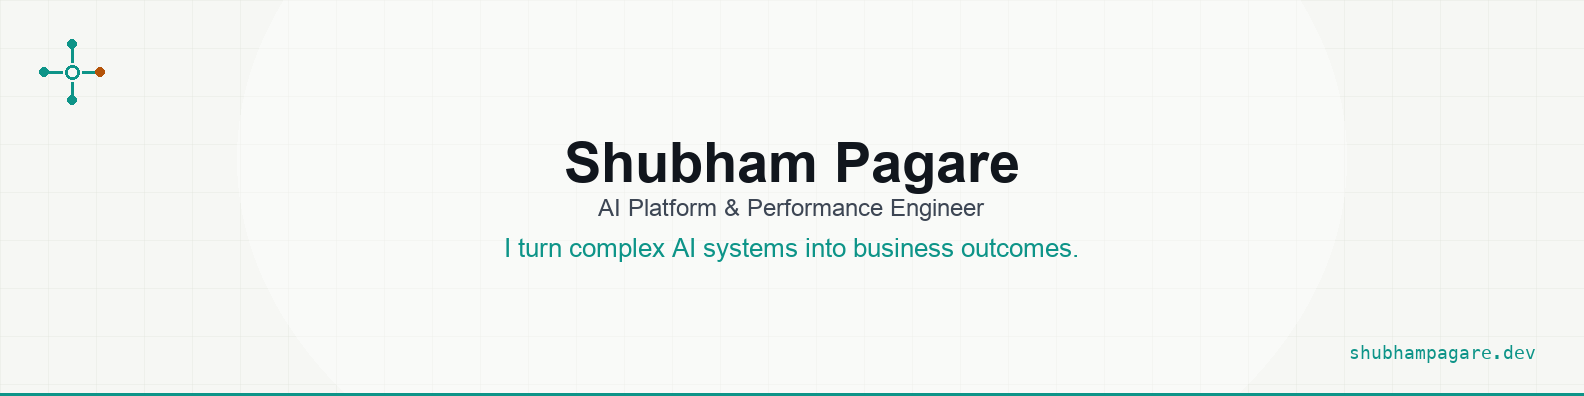
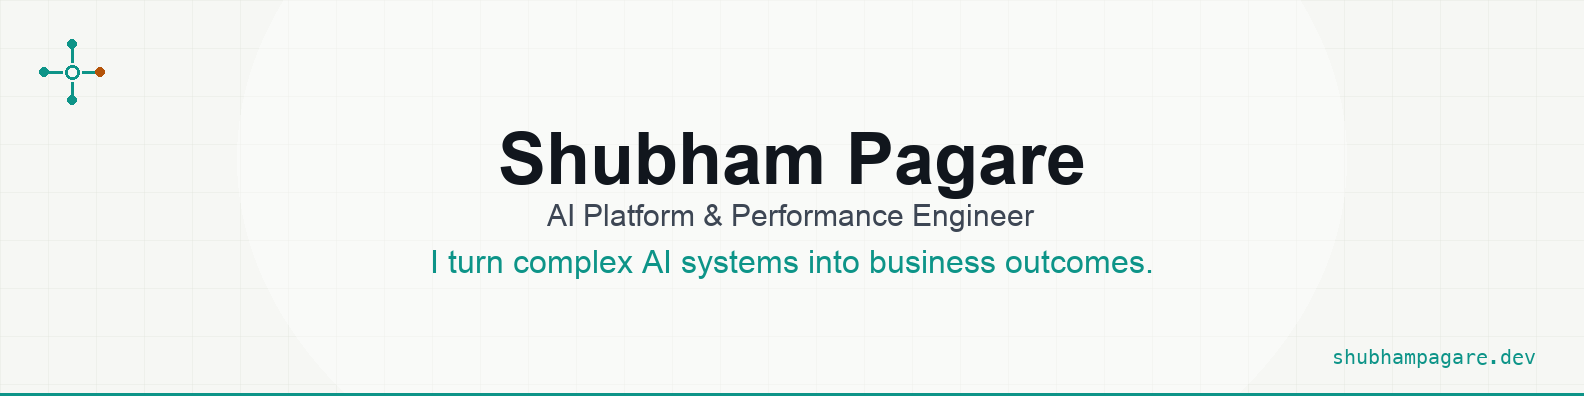
Added Google Analytics

Changed region(s): [[0.3093, 0.3333, 0.7115, 0.5758], [0.2784, 0.6061, 0.7424, 0.697], [0.8352, 0.8788, 0.9899, 0.9394]]

diff --git a/blog/messy-playground.html b/blog/messy-playground.html
@@ -1,6 +1,15 @@
 <!DOCTYPE html>
 <html lang="en" data-theme="light">
 <head>
+<!-- Google tag (gtag.js) -->
+<script async src="https://www.googletagmanager.com/gtag/js?id=G-W12G8WD90W"></script>
+<script>
+  window.dataLayer = window.dataLayer || [];
+  function gtag(){dataLayer.push(arguments);}
+  gtag('js', new Date());
+
+  gtag('config', 'G-W12G8WD90W');
+</script>
 <meta charset="UTF-8">
 <meta name="viewport" content="width=device-width, initial-scale=1.0, viewport-fit=cover">
 <title>Why AI Demos Die in Production — Shubham Pagare</title>

diff --git a/index.html b/index.html
@@ -1,6 +1,15 @@
 <!DOCTYPE html>
 <html lang="en" data-theme="light">
 <head>
+<!-- Google tag (gtag.js) -->
+<script async src="https://www.googletagmanager.com/gtag/js?id=G-W12G8WD90W"></script>
+<script>
+  window.dataLayer = window.dataLayer || [];
+  function gtag(){dataLayer.push(arguments);}
+  gtag('js', new Date());
+
+  gtag('config', 'G-W12G8WD90W');
+</script>
 <meta charset="UTF-8">
 <meta name="viewport" content="width=device-width, initial-scale=1.0">
 <title>Shubham Pagare — AI Platform &amp; Performance Engineer</title>

diff --git a/blog/context-builder.html b/blog/context-builder.html
@@ -1,6 +1,15 @@
 <!DOCTYPE html>
 <html lang="en" data-theme="light">
 <head>
+<!-- Google tag (gtag.js) -->
+<script async src="https://www.googletagmanager.com/gtag/js?id=G-W12G8WD90W"></script>
+<script>
+  window.dataLayer = window.dataLayer || [];
+  function gtag(){dataLayer.push(arguments);}
+  gtag('js', new Date());
+
+  gtag('config', 'G-W12G8WD90W');
+</script>
 <meta charset="UTF-8">
 <meta name="viewport" content="width=device-width, initial-scale=1.0, viewport-fit=cover">
 <title>Context Builder — Shubham Pagare</title>
